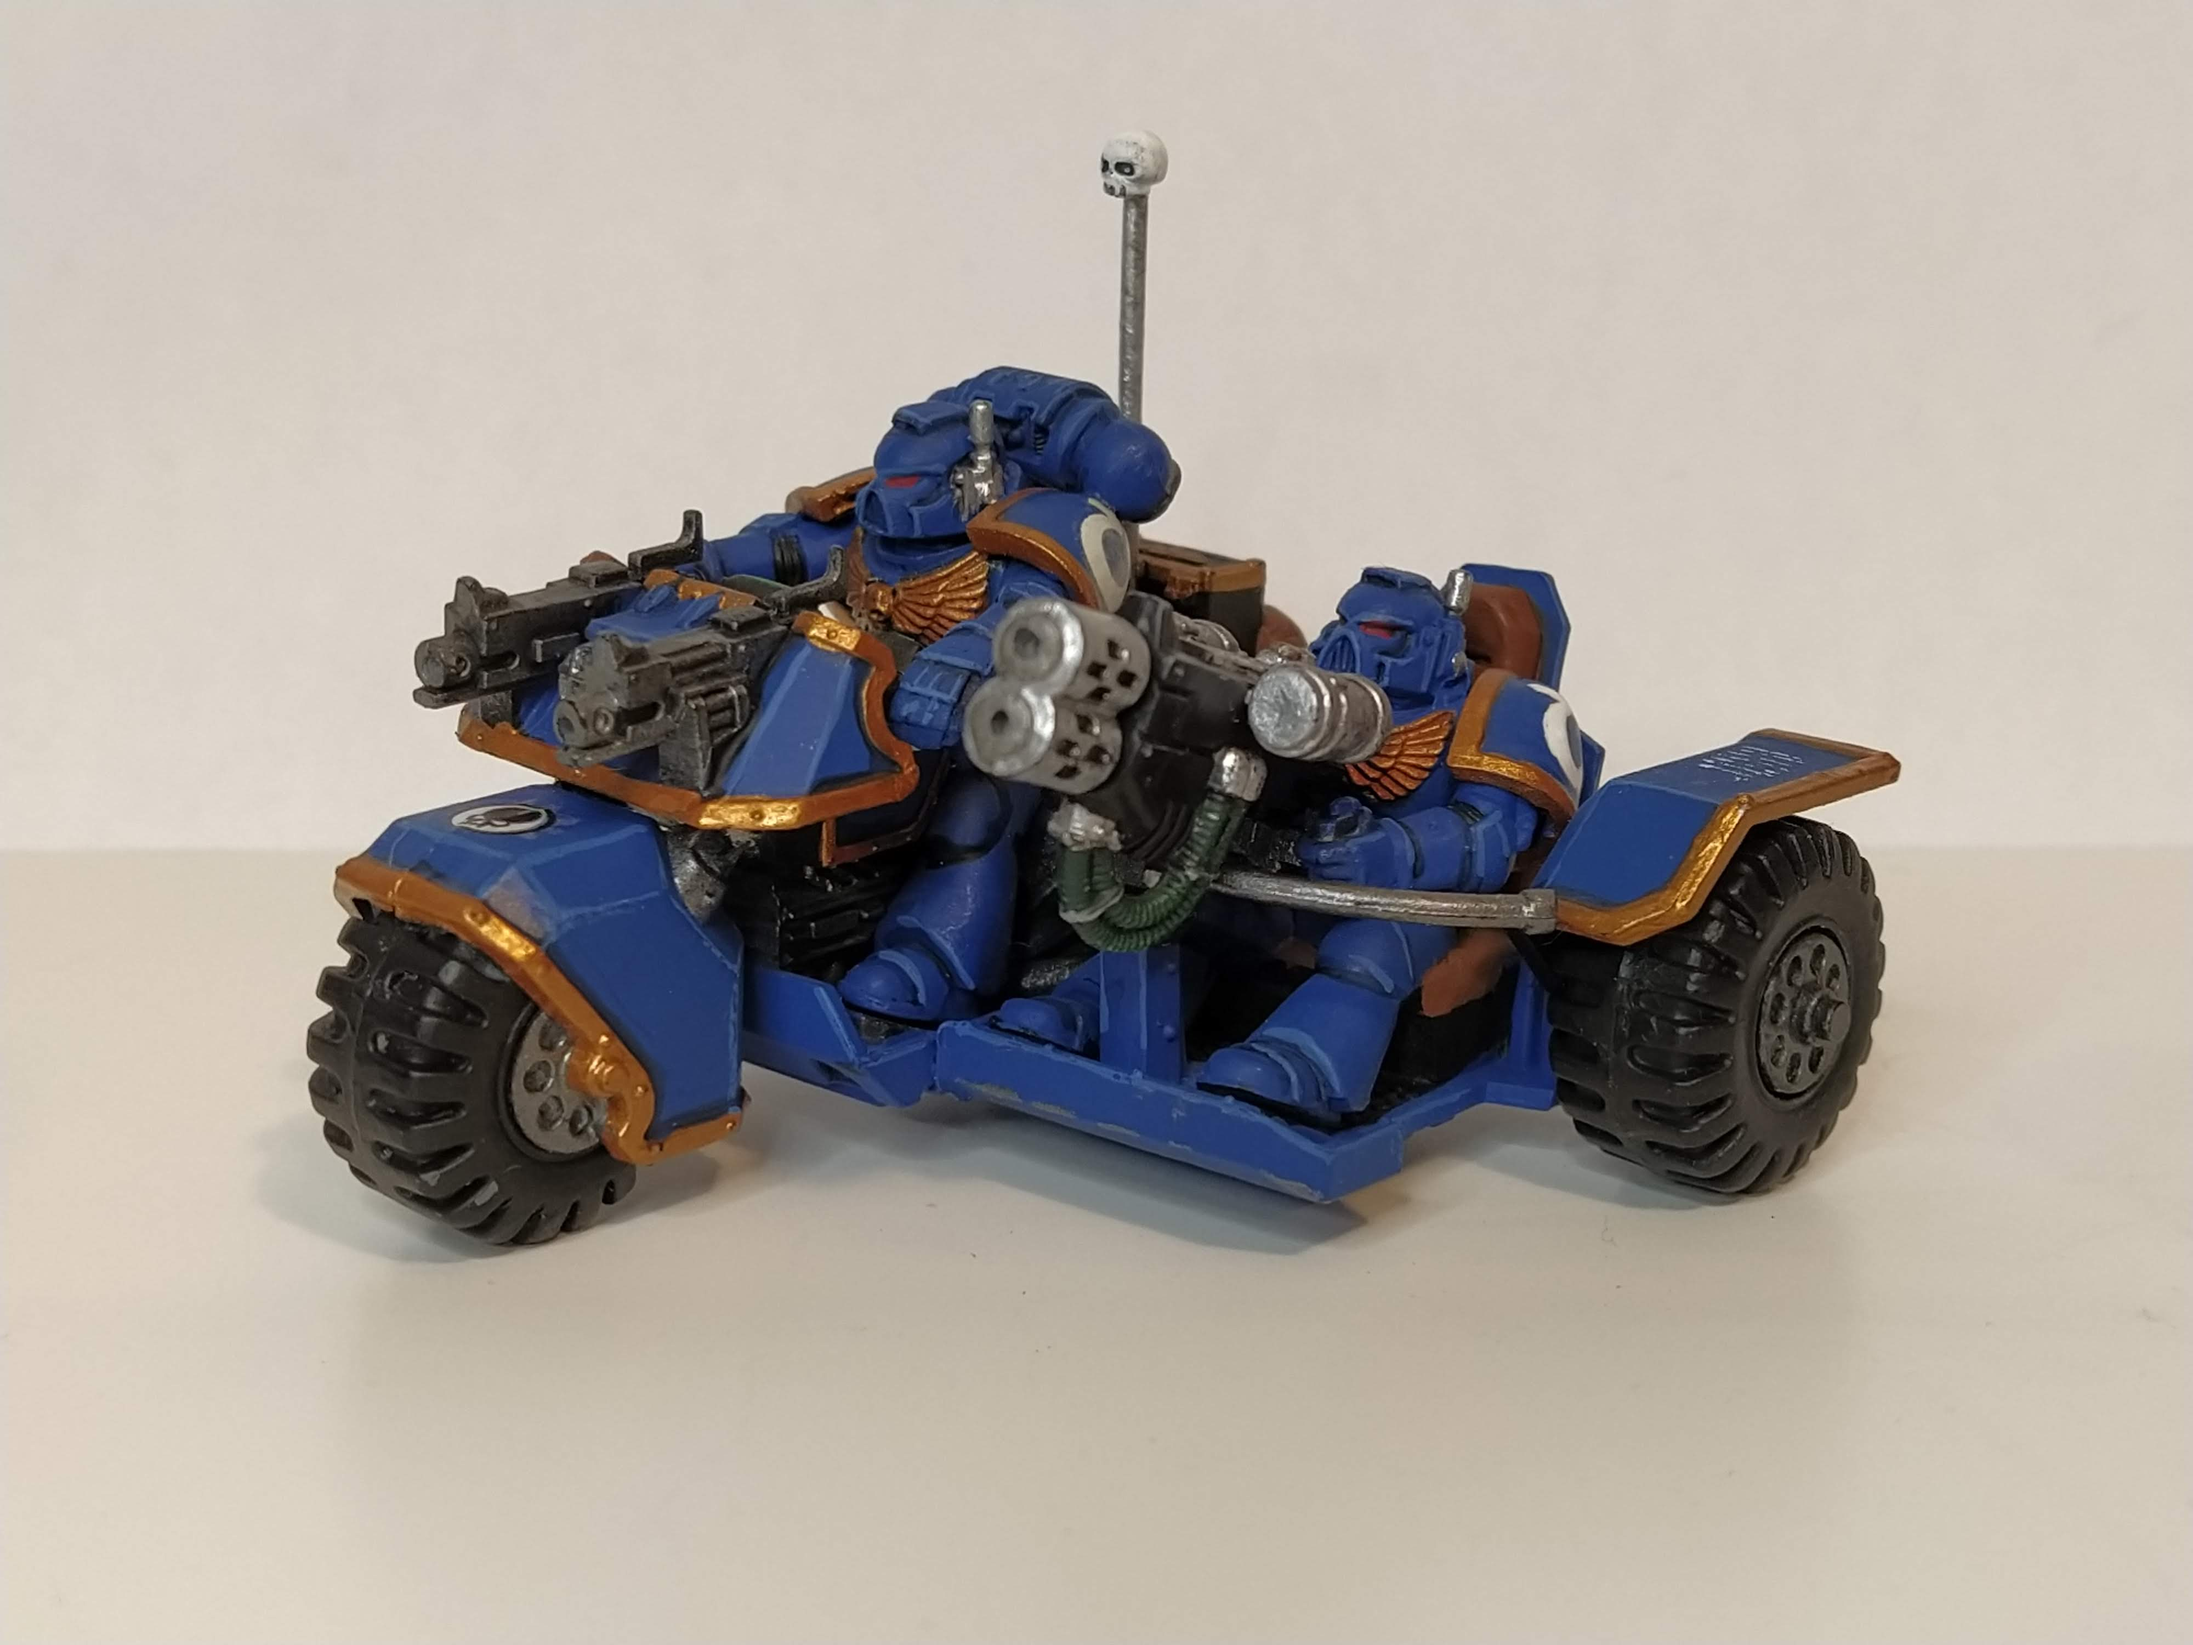
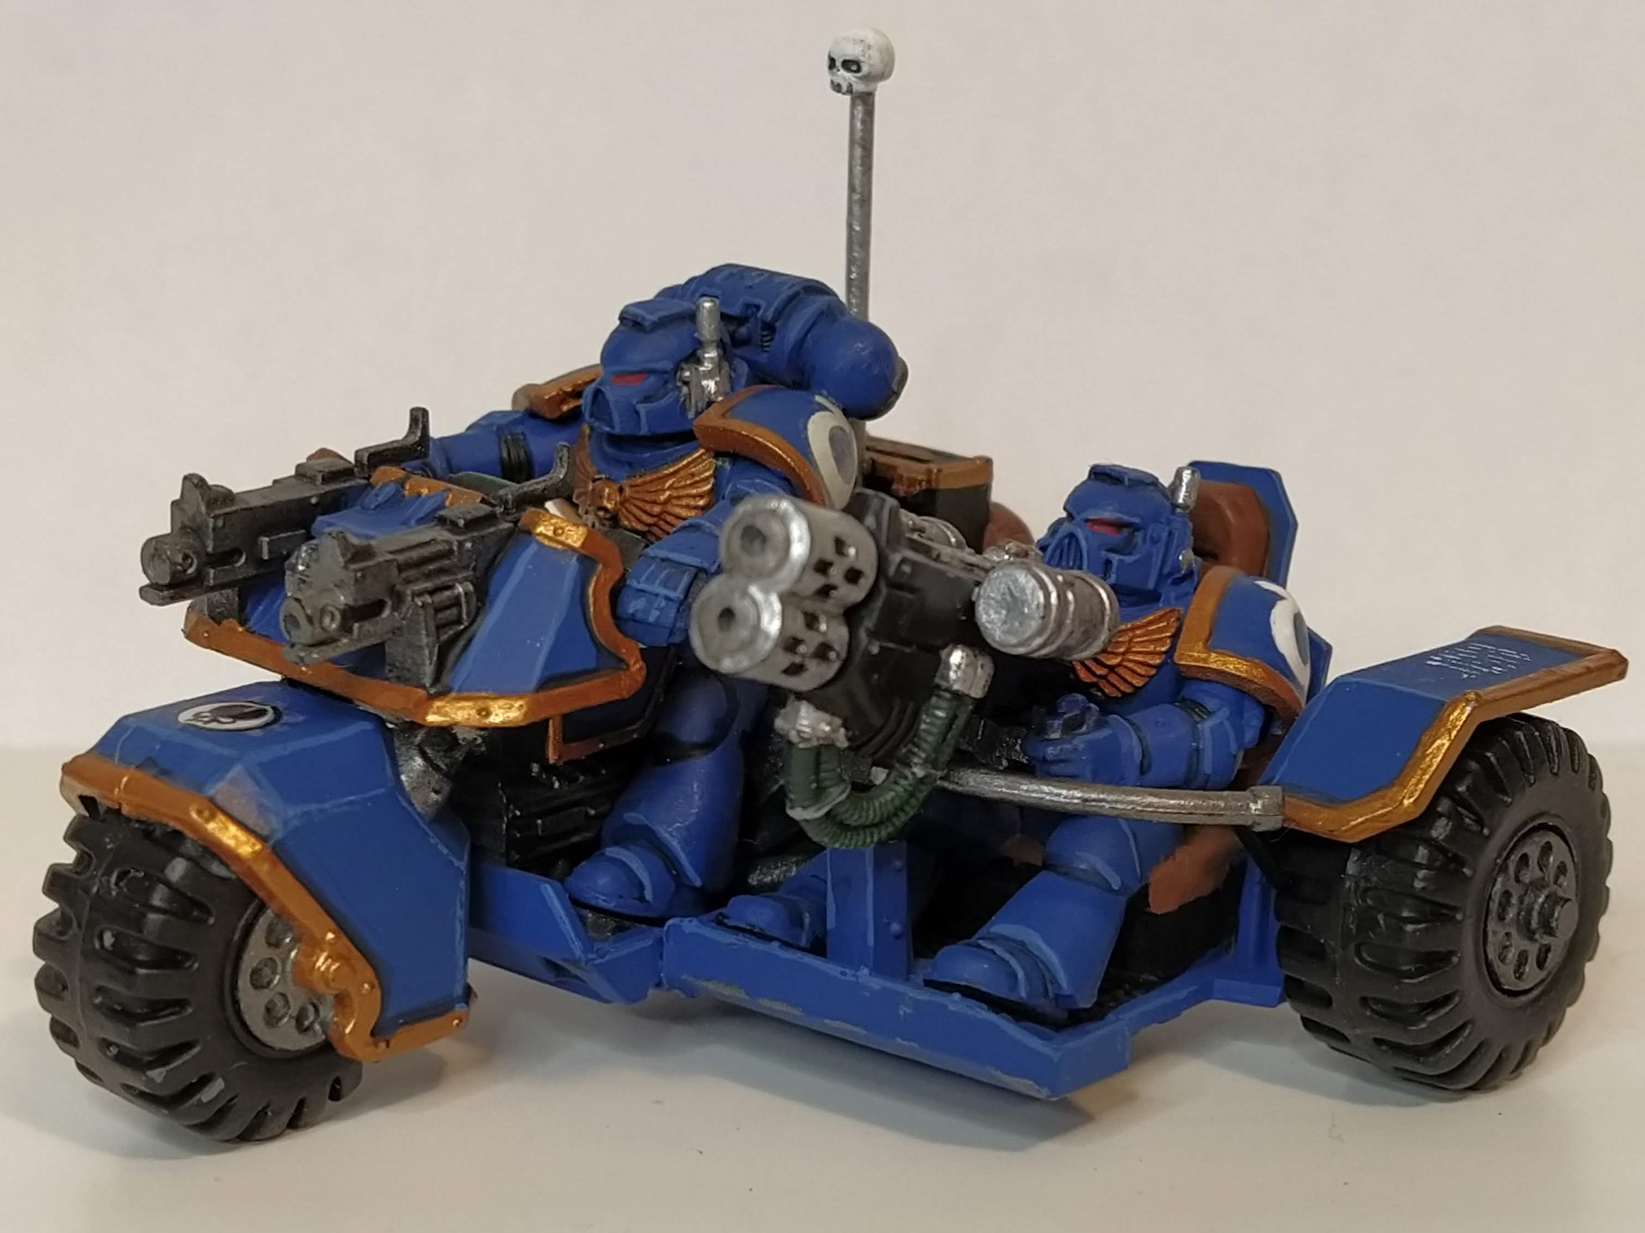
add ultramarines images

diff --git a/wh40k/ul/index.html b/wh40k/ul/index.html
@@ -14,7 +14,6 @@
             $("#navigation").load("../../menu/nav-orks.html");
         });
     </script>
-
 </head>
 
 <body>
@@ -44,16 +43,12 @@
                   <ul class="lb-album">
                     <li>
                       <a href="#image-0">
-                        <img src="images/DA-LC.jpg" alt="Dark Angels - Librarius Conclave Formation" />
-                        <span>Click for Links</span>
+                        <img src="../images/ul/attack_bike_s.jpg" alt="Ultramarines - Attack Bike" />
                       </a>
                       <div class="lb-overlay" id="image-0">
-                        <img src="images/DA-LibrariusConclave.jpg" alt="Dark Angels - Librarius Conclave Formation" />
+                        <img src="../images/ul/attack_bike.jpg" alt="Ultramarines - Attack Bike" />
                         <div>
-                          <h3>Dark <span>/Angels/</span></h3>
-                          <p><a href="https://mega.co.nz/#!fJQika7T!rf8UD1iy1-G_HKi4EJkXWrVLjCepxS5P03lt2zEjmQA" target="_new">Dark Angels - Librarius Conclave Formation - pdf</a><br />
-                             <a href="https://mega.co.nz/#!CNZiXBaL!ZLfYp5mLflk3M9sxT4C3gyw1DXG6rj-3X2Km0sdv34Y" target="_new">Dark Angels - Librarius Conclave Formation - epub</a><br />
-                             <a href="https://mega.co.nz/#!CNZiXBaL!ZLfYp5mLflk3M9sxT4C3gyw1DXG6rj-3X2Km0sdv34Y" target="_new">Dark Angels - Librarius Conclave Formation - mobi</a></p>
+                          <h3>Attack <span>/Bike/</span></h3>
                           <a href="#image-1" class="lb-prev">Prev</a>
                           <a href="#image-1" class="lb-next">Next</a>
                         </div>
@@ -62,16 +57,12 @@
                     </li>
                     <li>
                       <a href="#image-1">
-                        <img src="images/DA-TUH.jpg" alt="Dark Angels - The Unrelenting Hunt" />
-                        <span>Click for Links</span>
+                        <img src="../images/ul/bike_squad_s.jpg" alt="Ultramarines - Bike Squad" />
                       </a>
                       <div class="lb-overlay" id="image-1">
-                        <img src="images/DA-TheUnrelentingHunt.jpg" alt="Dark Angels - The Unrelenting Hunt" />
+                        <img src="../images/ul/bike_squad.jpg" alt="Ultramarines - Bike Squad" />
                         <div>
-                          <h3>Dark <span>/Angels/</span></h3>
-                          <p><a href="https://mega.co.nz/#!fJQika7T!rf8UD1iy1-G_HKi4EJkXWrVLjCepxS5P03lt2zEjmQA" target="_new">Dark Angels - The Unrelenting Hunt - pdf</a><br />
-                             <a href="https://mega.co.nz/#!CNZiXBaL!ZLfYp5mLflk3M9sxT4C3gyw1DXG6rj-3X2Km0sdv34Y" target="_new">Dark Angels - The Unrelenting Hunt - epub</a><br />
-                             <a href="https://mega.co.nz/#!CNZiXBaL!ZLfYp5mLflk3M9sxT4C3gyw1DXG6rj-3X2Km0sdv34Y" target="_new">Dark Angels - The Unrelenting Hunt - mobi</a></p>
+                          <h3>Bike <span>/Squad/</span></h3>
                           <a href="#image-0" class="lb-prev">Prev</a>
                           <a href="#image-0" class="lb-next">Next</a>
                         </div>

diff --git a/css/album-style.css b/css/album-style.css
@@ -15,8 +15,8 @@
   display: block;
 }
 .lb-album li > a{
-  width: 150px;
-  height: 200px;
+  width: 200px;
+  height: 150px;
   position: relative;
   padding: 10px;
   background: #bbbbbb;
@@ -29,8 +29,8 @@
 }
 .lb-album li > a span{
   position: absolute;
-  width: 150px;
-  height: 200px;
+  width: 200px;
+  height: 150px;
   top: 10px;
   left: 10px;
   text-align: center;
